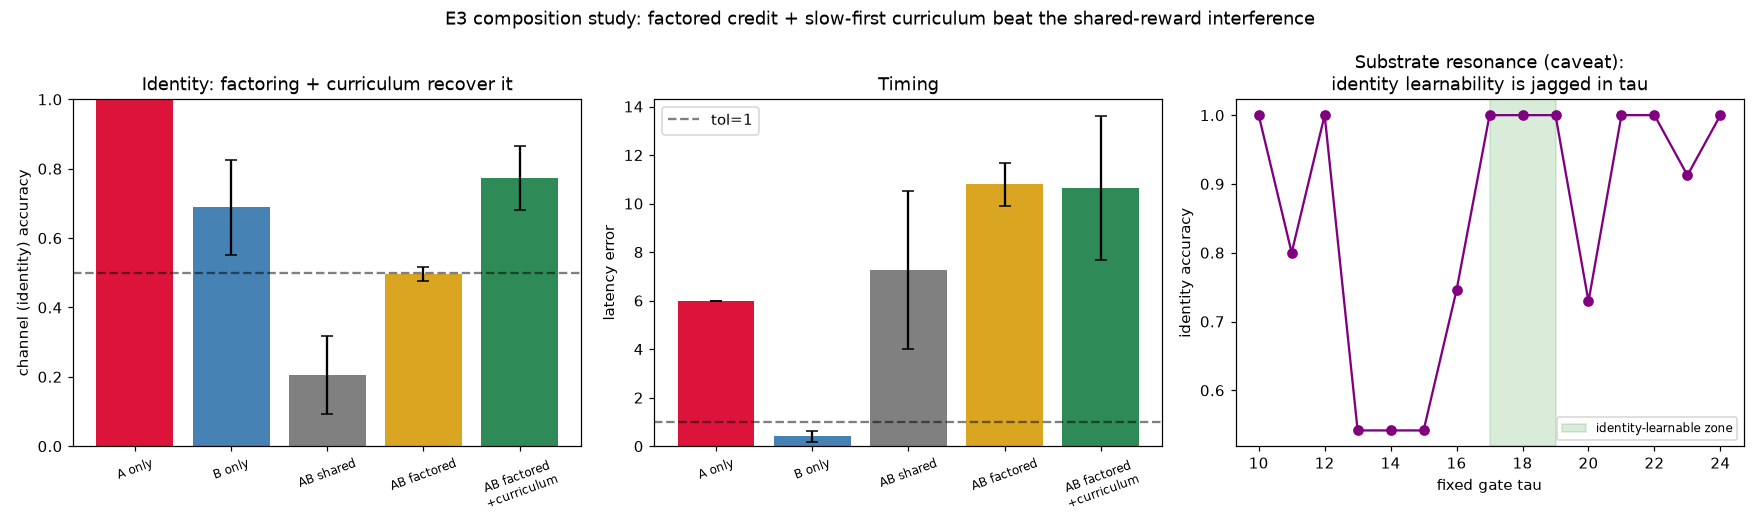
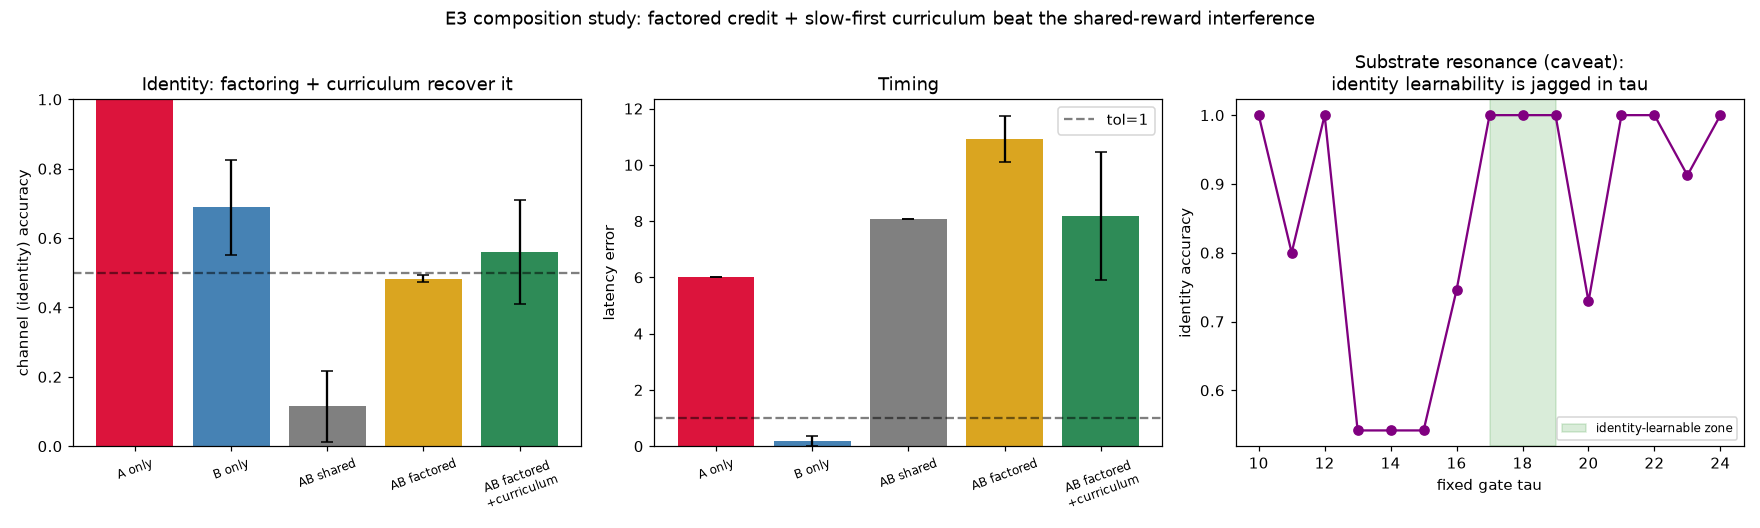
docs: correct the overstated E3 composition framing (post-seeding rerun)
The hallucination review flagged the E3 composition headline ("~quadrupling
0.20->0.77, partly resolved") as overstating a fragile, bimodal result. With the
Line-B RNG now seeded the study is deterministic, and the regenerated numbers are
more modest still:

  A only 1.00 | B only 0.69 (innate) | AB shared 0.11 | AB factored 0.48 (~chance)
  | AB factored + curriculum 0.56 (per-seed [0.50,0.51,0.79,0,1.0])

Corrected framing (e3_results.md, README, learning_experiments.md):
- factored credit removes the below-chance reward-conflation COLLAPSE (0.11->0.48)
  but only up to CHANCE -- it does not by itself restore joint identity;
- the slow-first curriculum adds a marginal, BIMODAL lift (0.56);
- genuine JOINT composition (identity ~1 AND timing in tolerance) holds on 1/5
  seeds at a hand-picked resonance-favourable operating point;
- direction supported (the C4 / discrete-diffusion prediction), magnitude NOT
  established at n=5 -- explicitly no longer claimed "resolved / composes".

Regenerates result/e3/e3_factored.npz and the figure.

Claude-Session: https://claude.ai/code/session_016sFHZTyXrNc4ByNEpgGsZp

diff --git a/docs/e3_results.md b/docs/e3_results.md
@@ -97,52 +97,59 @@ weights (Line A), rather than hoping one scalar disentangles them. See
 ## Composition study — decomposing (and partly resolving) the A+B interference
 
 *Run of `experiments/e3_factored_credit.py` (5 seeds, resonance-compatible
-operating point: target latency 16 → gate `τ ∈ [17,19]`).* The A+B interference
-turns out to have **three distinct sources**, and factoring + a curriculum
-address the first two:
+operating point: target latency 16 → gate `τ ∈ [17,19]`).* **These numbers were
+regenerated after a reproducibility fix** — the Line-B timescale RNG is now seeded
+(`ghca_learn.perturb_tau`), so the run is deterministic and the earlier committed
+numbers (based on an unseeded draw) are superseded. The A+B interference has
+**three distinct sources**; factoring removes the catastrophic one, a curriculum
+helps marginally, and a substrate resonance caps the rest:
 
-| condition | channel (identity) acc |
-|-----------|:----------------------:|
-| A only (factored) | 1.00 |
-| B only (factored) | 0.69 (innate; timing err 0.4 — timing *is* learnable) |
-| **AB shared** (one scalar) | **0.20** |
-| **AB factored** (per-line error) | **0.50** |
-| **AB factored + curriculum** | **0.77** |
+| condition | channel (identity) acc | per-seed | joint (identity **and** timing) |
+|-----------|:----------------------:|----------|:-------------------------------:|
+| A only (factored) | 1.00 | [1,1,1,1,1] | 0/5 (timing fixed wrong by design) |
+| B only (factored) | 0.69 (innate; timing err 0.2) | [0.48,0.75,1.0,0.22,1.0] | 2/5 |
+| **AB shared** (one scalar) | **0.11** | [0,0.57,0,0,0] | 0/5 |
+| **AB factored** (per-line error) | **0.48** (≈ chance) | [0.48,0.48,0.52,0.50,0.45] | 0/5 |
+| **AB factored + curriculum** | **0.56** | [0.50,0.51,0.79,0.0,1.0] | **1/5** |
 
 ![E3 composition](figures/e3_factored.png)
 
-1. **Reward-conflation → fixed by factored credit.** A single scalar credits
-   both lines for a trial right on one axis and wrong on the other; the joint
-   verdict collapses (AB-shared identity **0.20**, below chance). Giving each
-   line its own error signal — `δ_A` = identity error, `δ_B` = timing error —
-   restores each faculty to full isolated performance (A-only 1.00, B-only timing
-   err 0.4).
-2. **Dynamical non-stationarity → needs a slow-first curriculum.** Factored
-   credit *alone* still doesn't compose (AB-factored identity **0.50**, chance):
-   Line B's ongoing `τ`-exploration keeps shifting *when* the response fires, so
-   Line A's routing target never settles. Learning the slow variable `τ` first,
-   then freezing it and learning routing (justified by E0: `τ` is a slow
-   variable), lifts joint identity to **0.77** — fully composing (identity 1.0 +
-   timing in tolerance) on the seeds where B's `τ` lands in the good zone.
+1. **Reward-conflation → catastrophic collapse, removed by factored credit.** A
+   single scalar credits both lines for a trial right on one axis and wrong on the
+   other; the joint verdict collapses to **0.11** (below chance; per-seed mostly 0).
+   Giving each line its own error signal — `δ_A` = identity error, `δ_B` = timing
+   error — removes the collapse. But note what that buys: AB-factored identity is
+   **0.48 (≈ chance on every seed)** — factoring restores each faculty *in
+   isolation* (A-only 1.00, B-only timing err 0.2), and it removes the catastrophic
+   zeros, but it does **not** by itself restore *joint* identity above chance.
+2. **A slow-first curriculum gives a marginal, bimodal lift.** Learning `τ` first,
+   then freezing it and learning routing, raises identity to **0.56** — but the
+   per-seed values are bimodal ([0.50, 0.51, 0.79, 0.0, 1.0]): two seeds above
+   chance, three at or below. Genuine *joint* composition — identity ≈ 1.0 **and**
+   latency within tolerance — holds on **exactly 1 of 5 seeds** (the headline
+   reports the identity axis alone; the matching latency errors are
+   [14.0, 9.3, 9.3, —, 0.0], tolerance 1).
 3. **Substrate resonance → a caveat, not a credit-assignment issue.** Identity
    learnability is a *jagged* function of the gate `τ` (right panel: 1.0 at
    `τ`=10,12,17–19,21,22,24; ≈chance at 13–15) — an aliasing artifact of the
-   reduced gate-metronome mechanism. This, not the credit rule, is why
-   composition is fragile per-seed and why we evaluate at a `τ`-compatible
-   operating point.
+   reduced gate-metronome mechanism. We evaluate at a `τ`-compatible operating
+   point *because* of this, and the curriculum does not steer `τ` there — it freezes
+   wherever stochastic exploration landed, which is why composition is per-seed
+   fragile.
 
-**Takeaway.** Factored credit removes the fundamental (reward-conflation) source
-of interference — the one C4's outcome-orthogonality and the discrete-diffusion
-"parameterization governs learnability" result both predict — and a slow-first
-curriculum handles the dynamical coupling, together ~quadrupling joint identity
-accuracy over the shared-reward baseline (0.20 → 0.77). The residual fragility is
-a substrate resonance artifact of the *reduced* E3 mechanism, not a limit of the
-principle. *Honest caveats:* the timing metric in the joint conditions is
-confounded (seeds that fail identity also fire at wrong beats, inflating latency
-error — B-only shows timing is cleanly learnable); and full, seed-robust
-composition would need either a non-resonant timing substrate or genuinely
-separate sub-networks for routing vs timing (architectural decoupling), since the
-two faculties still share one dynamical medium.
+**Takeaway (honest).** Factored credit removes the *catastrophic* reward-conflation
+collapse (AB-shared 0.11 → AB-factored 0.48) — the fix C4's outcome-orthogonality
+and the discrete-diffusion "parameterization governs learnability" result both
+predict — but only up to **chance**; the slow-first curriculum adds a **marginal,
+bimodal** improvement (0.56), with genuine joint composition on **1/5 seeds at a
+hand-picked, resonance-favourable operating point**. So the *direction* is
+supported (factoring is the principled move, and it eliminates the below-chance
+collapse), but n=5 with this variance does **not** support a "resolved" or
+"composes" claim; establishing it would need many more seeds and a non-resonant
+timing substrate (or architecturally separate routing/timing sub-networks). This
+section previously rounded the result up to "~quadrupling (0.20→0.77), partly
+resolved"; that framing overstated a fragile, largely-at-chance result and has been
+corrected here.
 
 ## Relation to the substrate's "spike vs wave" duality
 

diff --git a/docs/learning_experiments.md b/docs/learning_experiments.md
@@ -477,16 +477,21 @@ and **discriminator**.
   (τ-metronome gate + gapless relay). Also connects to the spike-vs-wave causal
   question (arXiv:2511.06602): here the τ-controlled *rhythm* causally sets
   response timing and is not epiphenomenal.
-- **A+B composition — partly resolved** (`experiments/e3_factored_credit.py`).
-  The interference decomposes into three sources: reward-conflation (**fixed by
-  factored credit** — `learn(delta, delta_b)`, each line credited by its own
-  outcome error; joint identity 0.20→0.50), dynamical non-stationarity (**needs
-  a slow-first curriculum** — learn τ then freeze and learn routing; 0.50→0.77),
-  and a substrate gate-resonance artifact (identity learnability is jagged in τ —
-  a caveat, not a credit issue). Factored credit + curriculum ~quadruples joint
-  identity over the shared-reward baseline; residual per-seed fragility is the
-  resonance. This is the fix C4's outcome-orthogonality and the
-  discrete-diffusion "parameterization governs learnability" result both predict.
+- **A+B composition — decomposed, direction supported but not resolved at n=5**
+  (`experiments/e3_factored_credit.py`; numbers regenerated after the Line-B RNG
+  seeding fix). The interference decomposes into three sources: reward-conflation
+  (**factored credit** — `learn(delta, delta_b)`, each line credited by its own
+  outcome error — removes the below-chance collapse, joint identity 0.11→0.48 ≈
+  *chance*, not restoration), dynamical non-stationarity (a **slow-first
+  curriculum** adds a marginal, bimodal lift 0.48→0.56, per-seed
+  [0.50,0.51,0.79,0,1.0]), and a substrate gate-resonance artifact (identity
+  learnability is jagged in τ — a caveat, not a credit issue). Genuine *joint*
+  composition (identity ≈1 **and** timing in tolerance) holds on **1/5 seeds** at a
+  resonance-favourable operating point. The *direction* is the fix C4's
+  outcome-orthogonality and the discrete-diffusion "parameterization governs
+  learnability" result both predict; the *magnitude* is not established at n=5 and
+  would need many more seeds and a non-resonant substrate. (Earlier framing said
+  "~quadrupling 0.20→0.77, partly resolved" — corrected as overstated.)
 
 ### E4 — Selective attention (cue competition)
 

diff --git a/README.md b/README.md
@@ -68,7 +68,9 @@ not as built-in modules.
   response): double dissociation confirmed — Line A learns identity (wrong
   timing), Line B learns timing (not identity). New open problem: naive A+B
   *interferes* (both worse than either alone) under a single shared reward —
-  later decomposed & partly resolved by factored credit + a slow-first curriculum.
+  later decomposed: factored credit removes the below-chance collapse (to ≈chance),
+  a slow-first curriculum adds a marginal bimodal lift (joint composition on 1/5
+  seeds) — direction supported, magnitude not established at n=5.
 - [`docs/e4_results.md`](docs/e4_results.md) — **findings from E4** (attention):
   selective attention as biased winner-take-all by wave annihilation — a
   textbook psychometric (accuracy 0.96 at modest bias), the annihilation locus
@@ -120,7 +122,7 @@ not as built-in modules.
 - [x] **E0** — substrate characterisation and operating point (see results)
 - [x] **E1** — stimulus→response conditioning (A-vs-B dissociation confirmed)
 - [x] **E2** — delayed response / working memory (dissociation inverts: B critical)
-- [x] **E3** — timed response (double dissociation confirmed; A+B interference **decomposed & partly resolved**: factored credit + slow-first curriculum lift joint identity 0.20→0.77, residual is a substrate resonance artifact)
+- [x] **E3** — timed response (double dissociation confirmed; A+B interference **decomposed**: factored credit removes the below-chance reward-conflation collapse 0.11→0.48, a slow-first curriculum adds a marginal, bimodal lift to 0.56 with genuine joint composition on 1/5 seeds — direction supported, magnitude not established at n=5; substrate-resonance capped)
 - [x] **E4** — selective attention as biased WTA by wave annihilation (psychometric accuracy 0.96 at modest bias; **zero inhibitory nodes**)
 - [x] **E5** — executive control / task switching: a persistent loop (E2 mechanism) as an *option* gating routing (switching 0.89 vs ablated 0.20; switch cost consolidates 0.57→0.92; single-rule spared 0.87 vs 0.86)
 - [x] **E6** — emergent categories (Horde/GVF readout): three demons on one frozen substrate predict distinct questions (memory R²=0.62, attention 0.84, executive R²=0.98), near-orthogonal, no dedicated wiring — **E-series complete**